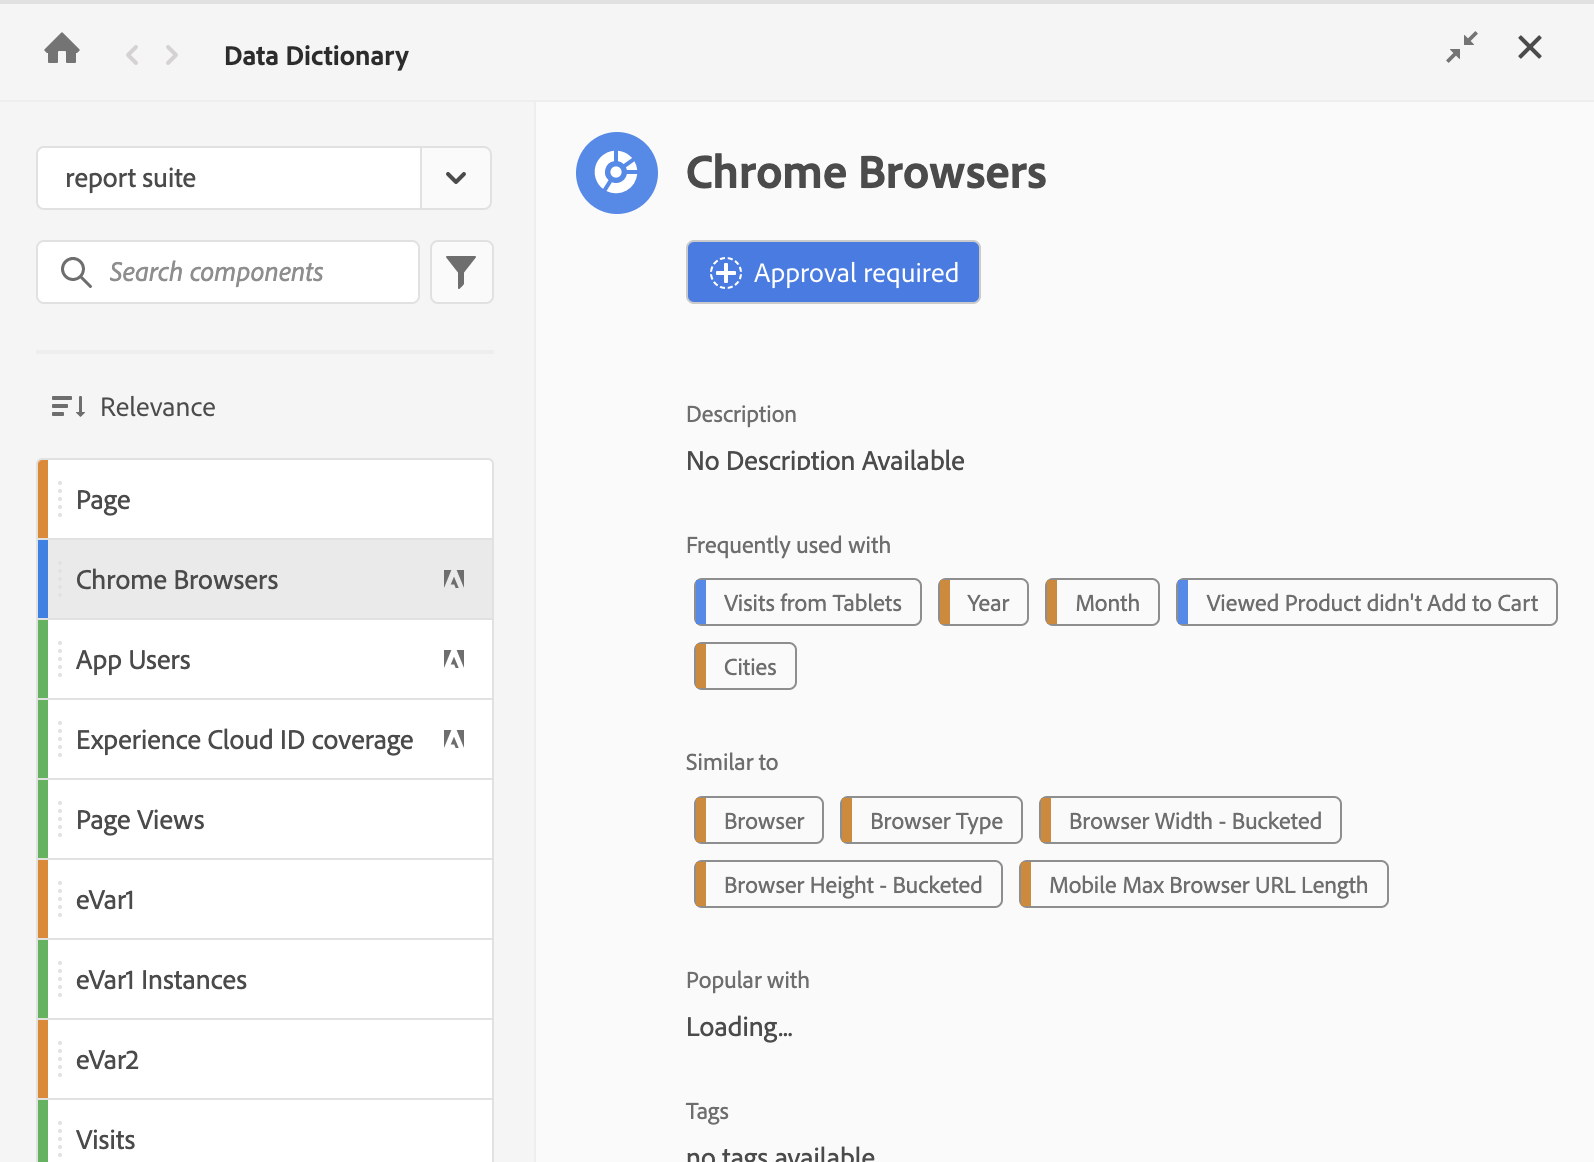
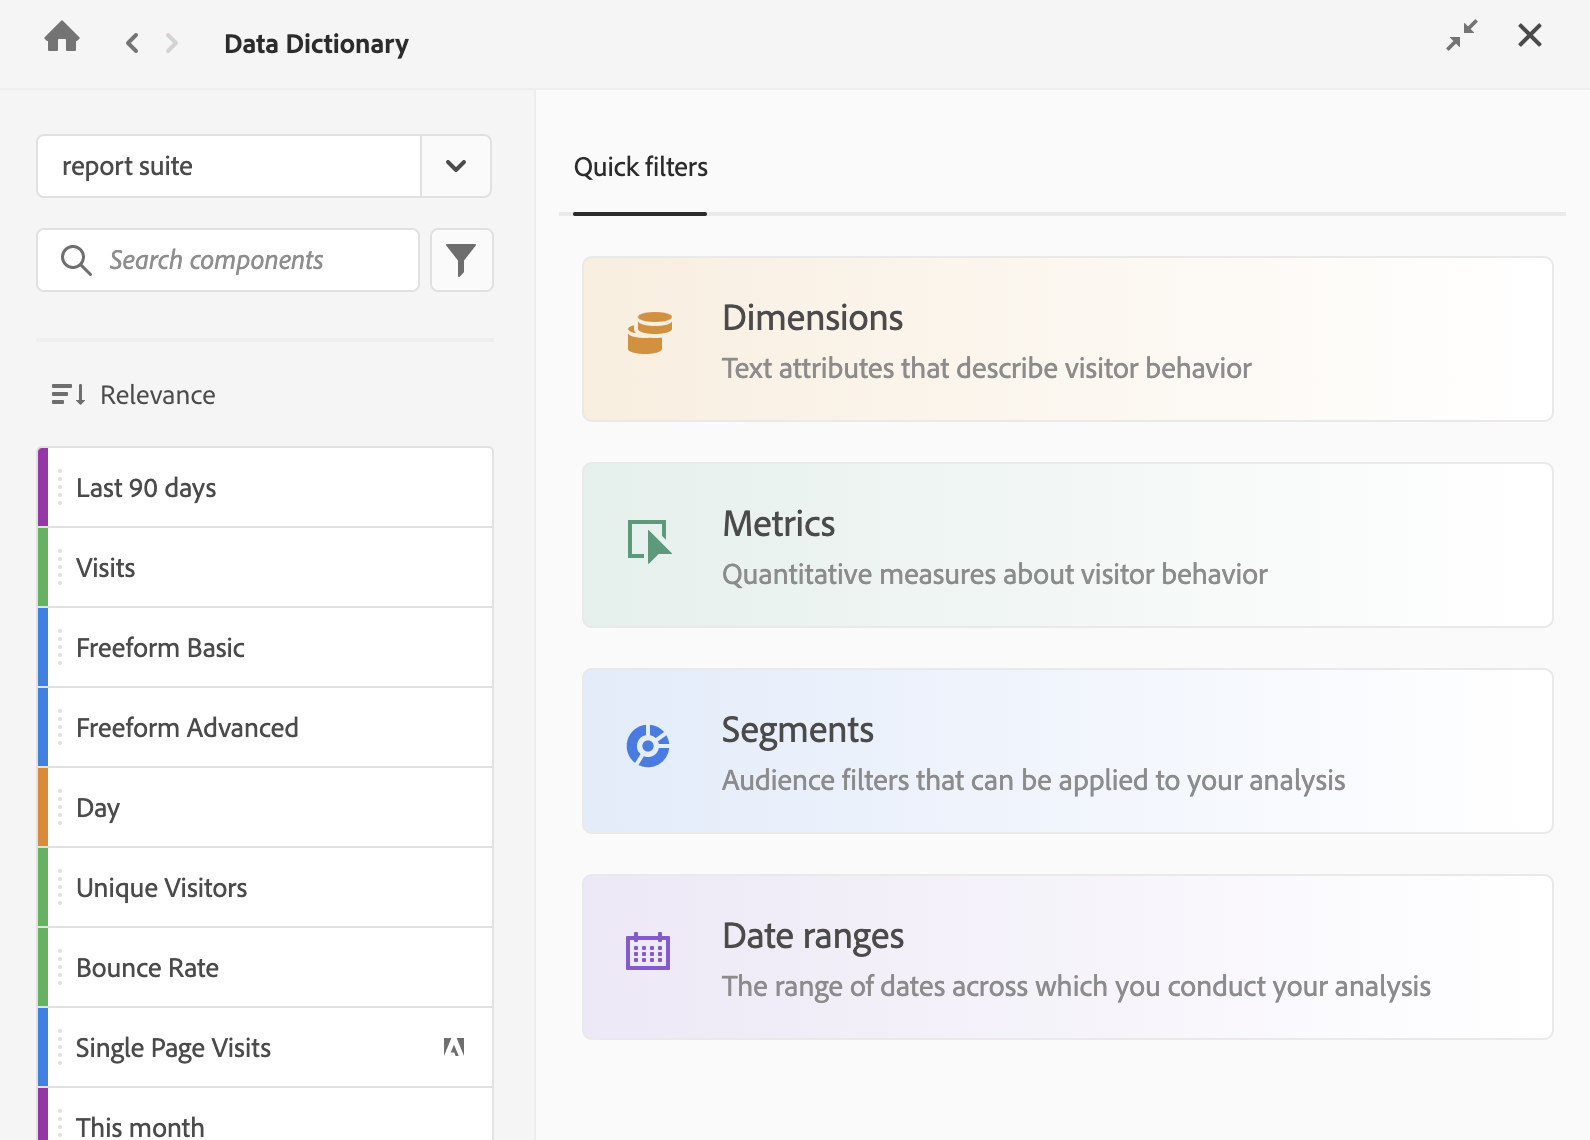
Added an article about dictionary health
Also other improvements.

diff --git a/help/analyze/analysis-workspace/components/data-dictionary/monitor-data-dictionary-health.md b/help/analyze/analysis-workspace/components/data-dictionary/monitor-data-dictionary-health.md
@@ -1,0 +1,49 @@
+---
+description: Administrators are responsible for monitoring Data Dictionary health. This includes whether components are gathering data, are approved, contain descriptions, and are free from duplicates. 
+title: Monitor Data Dictionary health
+feature: Components
+role: Admin
+---
+# Monitor Data Dictionary health
+
+Analytics administrators are responsible for maintaining a healthy Data Dictionary. 
+
+## Characteristics of a healthy Data Dictionary
+
+A healthy Data Dictionary is one where all components:
+
+* Are being used and are gathering data
+
+* Are approved by the administrator
+
+* Contain helpful descriptions so users know how best to use them
+
+* Are free from unnecessary duplicates
+
+## Check the health of your Data Dictionary
+
+To identify health issues in your Data Dictionary:
+
+1. Open an Analysis Workspace project.
+
+1. Select the Data Dictionary icon on the left side of Analysis Workspace. (Alternate ways of accessing the Data Dictionary are described in "Access the Data Dictionary" in [Data Dictionary overview](/help/analyze/analysis-workspace/components/data-dictionary/data-dictionary-overview.md).)
+
+   The Data Dictionary window displays.
+
+   ![Data Dictionary admin view](assets/data-dictionary-admin.png)
+
+1. Ensure that the correct Report Suite is selected in the drop-down menu.
+
+1. On the [!UICONTROL **Dictionary health**] tab, select [!UICONTROL **View**] next to any of the following options:
+
+   * [!UICONTROL **components are missing descriptions**]
+
+   * [!UICONTROL **components have duplicate names**]
+
+   * [!UICONTROL **components have no data recently**]
+
+     If a number is not shown for this option, select [!UICONTROL **Calculate**].
+
+   Depending on what you select, the appropriate filter is applied to the Data Dictionary, and only the relevant components are shown. 
+
+1. Edit any of the components to correct the problem. For information about how to edit a component in the Data Dictionary, see [Edit component entries in the Data Dictionary](/help/analyze/analysis-workspace/components/data-dictionary/edit-entries-data-dictionary.md).

diff --git a/help/analyze/TOC.md b/help/analyze/TOC.md
@@ -51,10 +51,11 @@ user-guide-description: Learn how to use Analytics tools, including Analysis Wor
       + [Calendar and date ranges overview](analysis-workspace/components/calendar-date-ranges/calendar.md)
       + [Create custom date ranges](analysis-workspace/components/calendar-date-ranges/custom-date-ranges.md)
       + [Date comparison](analysis-workspace/components/calendar-date-ranges/time-comparison.md)
-    + data-dictionary {#data-dictionary}
+    + Data Dictionary {#data-dictionary}
       + [Data Dictionary overview](analysis-workspace/components/data-dictionary/data-dictionary-overview.md)
       + [View component information in the Data Dictionary](analysis-workspace/components/data-dictionary/view-data-dictionary.md)
       + [Edit component entries in the Data Dictionary](analysis-workspace/components/data-dictionary/edit-entries-data-dictionary.md)
+      + [Monitor Data Dictionary health](analysis-workspace/components/data-dictionary/monitor-data-dictionary-health.md)
   + Visualizations {#visualizations}
     + [Visualizations overview](analysis-workspace/visualizations/freeform-analysis-visualizations.md)
     + [Manage data sources](analysis-workspace/visualizations/t-sync-visualization.md)

diff --git a/help/analyze/analysis-workspace/components/data-dictionary/edit-entries-data-dictionary.md b/help/analyze/analysis-workspace/components/data-dictionary/edit-entries-data-dictionary.md
@@ -16,7 +16,7 @@ To edit a component in the Data Dictionary:
 
    The Data Dictionary window displays.
 
-   ![data-dictionary.png](assets/data-dictionary.png)
+   ![Data Dictionary admin view](assets/data-dictionary-admin.png)
 
 1. Ensure that the correct Report Suite is selected in the drop-down menu. 
 
@@ -30,6 +30,6 @@ To edit a component in the Data Dictionary:
 
 1. Edit any of the following information about the component:
 
-   {{dd-component-information}}
+     {{dd-component-information}}
 
-1. Click the **Save** icon [Data Dictionary Save icon](assets/data-dictionary-save-icon.png) to save your changes.
+1. Click the **Save** icon ![Data Dictionary Save icon](assets/data-dictionary-save-icon.png) to save your changes.

diff --git a/help/analyze/analysis-workspace/components/data-dictionary/view-data-dictionary.md b/help/analyze/analysis-workspace/components/data-dictionary/view-data-dictionary.md
@@ -20,6 +20,8 @@ To view information about a component in the Data Dictionary (including the comp
 
    ![data-dictionary.png](assets/data-dictionary.png)
 
+   <!--double-check this screenshot. I mocked the admin view up a bit to get rid of the Dictionary health tab.>
+
 1. Ensure that the Report Suite that contains the component you want to view is selected in the drop-down menu. 
 
 1. In the search field, begin typing the name of the component you want to view.
@@ -30,5 +32,5 @@ To view information about a component in the Data Dictionary (including the comp
 
    The following information about the component is displayed:
 
-   {{dd-component-information}}
+     {{dd-component-information}}
 

diff --git a/help/analyze/analysis-workspace/components/data-dictionary/data-dictionary-overview.md b/help/analyze/analysis-workspace/components/data-dictionary/data-dictionary-overview.md
@@ -54,11 +54,11 @@ You can access the Data Dictionary in any of the following ways from Analysis Wo
 
 * From the **Data Dictionary** icon in the left rail.
 
-  ![data-dictionary.png](assets/data-dictionary-access-icon.png)
+  ![Data Dictionary icon in the left rail](assets/data-dictionary-access-icon.png)
 
 * From the **Data Dictionary** icon within the info popover of a component. 
 
-  ![data-dictionary.png](assets/data-dictionary-access-infopopover.png)
+  ![Data Dictionary icon in info popover](assets/data-dictionary-access-infopopover.png)
 <!--update screenshot; this was taken from a mock-->
 
 * From the menu: [!UICONTROL **Help**] > [!UICONTROL **Data Dictionary**].
